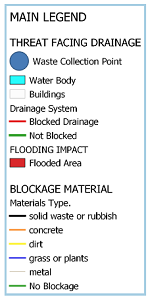
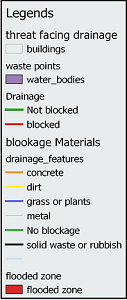
final touch
final touch

diff --git a/js/kazi.js b/js/kazi.js
@@ -1,10 +1,6 @@
 var map = new L.map('map').setView([-6.164653, 39.208925], 14 );
 
 var osmlayer = L.tileLayer('https://{s}.tile.openstreetmap.org/{z}/{x}/{y}.png').addTo(map);
-var said = L.tileLayer('http://{s}.google.com/vt/lyrs=s&x={x}&y={y}&z={z}',{
-    maxZoom: 20,
-    subdomains:['mt0','mt1','mt2','mt3']
-}).addTo(map);
 
 
 
@@ -12,11 +8,11 @@ var said = L.tileLayer('http://{s}.google.com/vt/lyrs=s&x={x}&y={y}&z={z}',{
  //layer style
  var style_shehia = {
      "color":"#fcfcfc",
-     "weight": 0.2,
-     "opacity": 1,
+     "weight": 0.5,
+     "opacity": 0.5,
      "dashArray": '5,5',
     "fillColor": "#f5fcfc",
-     "fillOpacity": "1" ,
+     "fillOpacity": 1
 };
  var style_buildings = {
      "color":"#cccfcf",
@@ -65,7 +61,7 @@ var styleFloodpronearea = {
 	}
 	
 var bufferStyle = {
-    "color":"#e66363",
+    "color":"#ff0505",
     "weight": 4,
     "opacity": 5,
     "fillColor": "#e66363",
@@ -95,7 +91,6 @@ var bufferStyle = {
      };
 	}
 
-	
 // data layers
 var shehias = L.geoJson(shehias,{style:style_shehia}).addTo(map); //shehias
 var buildings = L.geoJson(building,{style:style_buildings}).addTo(map).bindPopup("Buildings");; //buildings
@@ -128,47 +123,85 @@ var blockages= L.layerGroup([blocked]).addTo(map);
 
 
 //layer control
- var overlays = {
-             "Threat toward Drainage blockage":threats,
-			 "Flooding Impact of Drainage Blockage ":impact,
-			 "Blockage material":blockages
-			}; 
- var basemaps = {
-    "Setalite View":said,
-             "OpenStreetMap":osmlayer
-            
-         };
+var overlays = {
+    "Threat toward Drainage blockage":threats,
+    "Flooding Impact of Drainage Blockage":impact,
+    "Blockage material":blockages
+    }; 
+var basemaps = {
+        "OpenStreetMap":osmlayer
+    };
 
 L.control.layers(overlays,basemaps,{position:'topright'}).addTo(map);
 
 
-//legends
-var legend_drainage = L.control({position: 'bottomleft'});
 
-legend_drainage.onAdd = function (map) {
+
+
+//legends
+var main_legend = L.control({position: 'bottomleft'});
+
+main_legend.onAdd = function (map) {
     var div = L.DomUtil.create('div', 'info legend'),
         grades = ["ditch", "drain","stream","underground_drain"],
         labels = [];
-    div.innerHTML += '<b></b><br><img src="./images/legend.png">' 
+    div.innerHTML += '<b></b><br><img src="./images/drainage.png">' 
 	
     return div;
 };
-map.addControl(legend_drainage);
+map.addControl(main_legend);
+
+var threats_legend = L.control({position: 'bottomleft'});
+var impact_legend = L.control({position: 'bottomleft'});
+var blockage_legend = L.control({position: 'bottomleft'});
 
 
-var legend_drainage1 = L.control({position: 'bottomright'});
-
-legend_drainage1.onAdd = function (map) {
-    var div = L.DomUtil.create('div', 'info legend'),
-        grades = ["ditch", "drain","stream","underground_drain"],
-        labels = [];
-    div.innerHTML += '<b></b><br><img src="./images/materials.png">' 
-    return div;
+threats_legend.onAdd = function (map) {
+var div = L.DomUtil.create('div', 'info legend');
+div.innerHTML +=
+'<img src="./two.jpeg" alt="legend" width="134" height="147">';
+return div;
 };
-map.addControl(legend_drainage);
 
+// threats_legend.addTo(map);
 
+impact_legend.onAdd = function (map) {
+var div = L.DomUtil.create('div', 'info legend');
+    div.innerHTML +=
+    '<img src="./one.jpeg" alt="legend" width="134" height="147">';
+return div;
+};
 
+// impact_legend.addTo(map);
 
+blockage_legend.onAdd = function (map) {
+    var div = L.DomUtil.create('div', 'info legend');
+        div.innerHTML +=
+        '<img src="./three.jpeg" alt="legend" width="134" height="147">';
+    return div;
+    };
+    // blockage_legend.addTo(map); 
 
+map.on('baselayerchange', function (eventLayer) {
+    // Switch to the Population legend...
+    if (eventLayer.name === 'Threat toward Drainage blockage') {
+        this.removeControl(impact_legend);
+        this.removeControl(blockage_legend);
+        this.removeControl(main_legend);
+        threats_legend.addTo(this);
+    } 
+
+    else if(eventLayer.name === 'Blockage material') { 
+        this.removeControl(impact_legend);
+        this.removeControl(threats_legend);
+        this.removeControl(main_legend);
+        blockage_legend.addTo(this);
+    }
+    else if(eventLayer.name === 'Flooding Impact of Drainage Blockage'){ 
+        this.removeControl(threats_legend);
+        this.removeControl(blockage_legend);
+        this.removeControl(main_legend);
+        impact_legend.addTo(this);
+    }
+});
 

diff --git a/data-analysis.html b/data-analysis.html
@@ -47,8 +47,8 @@
             </div>
 
             <div class="col-md-3 ml-auto mr-auto">
-                <p style="font-family: Roboto;">
-                    This data analisis aim at look what are the type drainage that have large number of blockage  compare to other and it has been revieled that ditch are kind of
+                <p style="font-family: Roboto; font-size: 18px;">
+                    This data analysis aim at look what are the type drainage that have large number of blockage  compare to other and it has been revieled that ditch are kind of
                     drainage or waterway that is mostly blocked due to nature of its profile. so action is needed to insure that this kind of drainage ways is improved.
                 </p>
             </div>
@@ -62,7 +62,7 @@
 
 
             <div class="col-md-3 ml-auto mr-auto">
-                <p style="font-family: Roboto;">
+                <p style="font-family: Roboto; font-size: 18px;">
                     This evaluation try to find out what are the most common materials that are affect and influence the blockage of drainage in Zanzibar city. and as it has been shown in the chart
                     solid waste are the major materials that occupy in most of drainage system.
                 </p>
@@ -70,63 +70,12 @@
         </div>
         </div>
 
-        <div id="myModal" class="modal">
-            <span class="close">&times;</span>
-            <img class="modal-content" id="img01">
-            <div id="caption"></div>
-          </div>
-    </div>
-
 
 
      <!-- Boostrap -->
      <script src="https://cdnjs.cloudflare.com/ajax/libs/popper.js/1.16.1/umd/popper.min.js"></script>
      <script src="https://cdnjs.cloudflare.com/ajax/libs/twitter-bootstrap/5.0.0-alpha2/js/bootstrap.min.js"></script>
 
-
-
-    <script>
-        // Get the modal
-        var modal = document.getElementById("myModal");
-
-        // Get the image and insert it inside the modal - use its "alt" text as a caption
-        var img = document.getElementById("myImg");
-        var modalImg = document.getElementById("img01");
-        var captionText = document.getElementById("caption");
-        img.onclick = function(){
-          modal.style.display = "block";
-          modalImg.src = this.src;
-          captionText.innerHTML = this.alt;
-        }
-
-        // Get the image and insert it inside the modal - use its "alt" text as a caption
-        var img = document.getElementById("myImg2");
-        var modalImg = document.getElementById("img01");
-        var captionText = document.getElementById("caption");
-        img.onclick = function(){
-          modal.style.display = "block";
-          modalImg.src = this.src;
-          captionText.innerHTML = this.alt;
-        }
-
-        // Get the image and insert it inside the modal - use its "alt" text as a caption
-        var img = document.getElementById("myImg3");
-        var modalImg = document.getElementById("img01");
-        var captionText = document.getElementById("caption");
-        img.onclick = function(){
-          modal.style.display = "block";
-          modalImg.src = this.src;
-          captionText.innerHTML = this.alt;
-        }
-
-        // Get the <span> element that closes the modal
-        var span = document.getElementsByClassName("close")[0];
-
-        // When the user clicks on <span> (x), close the modal
-        span.onclick = function() {
-          modal.style.display = "none";
-        }
-        </script>
 
 
 </body>

diff --git a/index.html b/index.html
@@ -47,14 +47,14 @@
     <div class="row">
         <div class="col-md-3">
             <h2>Welcome</h2>
-                                <p>
+                                <p style="font-family: Roboto; font-size: 18px;">
                                    This visualization intended to show the major three themes which are threat toward the drainage
                                     blockage,blockage materials that weaken Zanzibar drainage system and Impact that occur due to drainage blockage.
                                     all of this visualization is shown into side map
                                     using groups layer.
                                      
                                      </p>
-                                <p>
+                                <p style="font-family: Roboto; font-size: 18px;">
                                     The main goal of this visualization is to enable  Zanzibar municipal council,
                                     Zanzibar City and building planner, Environmental stakeholders, Civil Engineers and Others
                                     community members to better understand drainage challanges exist and find a better way to 

diff --git a/style.css b/style.css
@@ -11,17 +11,17 @@ body{
 .dropdown .dropdown-menu .dropdown-item:active, .dropdown .dropdown-menu .dropdown-item:hover{
     background-color:#E7E7E7 !important;
 }
-a{
+/* a{
     color: #6D8092;
     font-size: 15px;
-}
-.nav-link:hover{
+} */
+/* .nav-link:hover{
     background-color:#E7E7E7 !important;
-   }
+   } */
 
-.navbar-brand:hover{
+/* .navbar-brand:hover{
 color: rgb(175, 175, 175) !important;
-}
+} */
 /* Images */
 img{
     width:100% !important;
@@ -64,7 +64,7 @@ footer{
 background-color: #666666;
 border-top-style: solid;
 border-top-width: 5px;
-border-top-color: #0BADA6;
+border-top-color:black;
 color: white;
 min-height: 55px;
 font-family: Arial, Helvetica, sans-serif;
@@ -79,7 +79,7 @@ padding-top: 15px;
 /* Media Queries */
 @media(max-width: 992px){
 .navbar-expand-lg{
-background-color: #0BADA6 !important;
+/* background-color: #0BADA6 !important; */
 }
 .navbar{
     max-height: none;

diff --git a/css/leaflet.css b/css/leaflet.css
@@ -638,3 +638,17 @@ svg.leaflet-image-layer.leaflet-interactive path {
 	margin-left: -12px;
 	border-right-color: #fff;
 	}
+
+
+/* Legend */
+.legend {
+    line-height: 38px;
+    color: #555;
+}
+.legend i {
+    width: 58px;
+    height: 18px;
+    float: left;
+    margin-right: 8px;
+    opacity: 0.7;
+}
